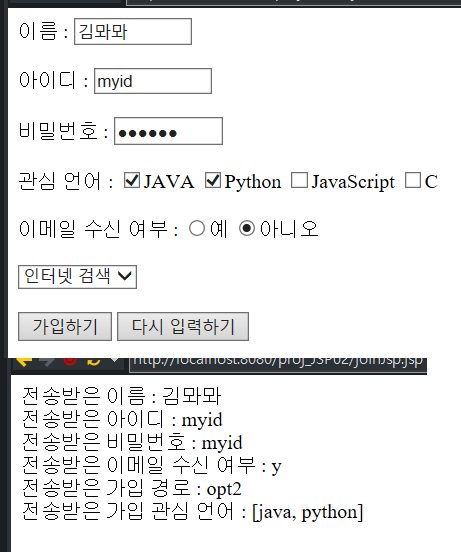
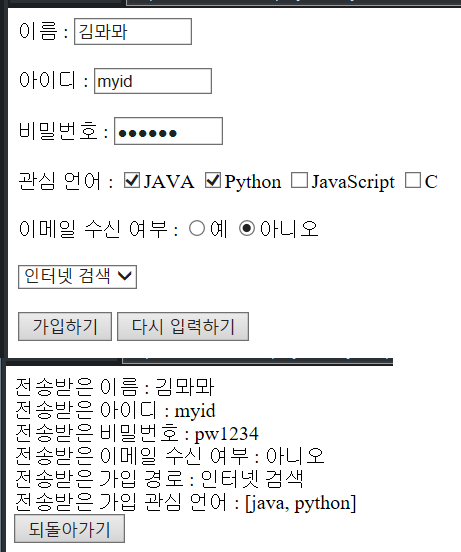
jsp05  추가

Changed region(s): [[0.0, 0.6467, 0.9414, 1.0], [0.6681, 0.8007, 0.6985, 0.8315]]

diff --git a/_posts/JSP&Servlet/2021-11-01-JSP05.md b/_posts/JSP&Servlet/2021-11-01-JSP05.md
@@ -1,5 +1,5 @@
 ---
-title: "[JSP] Request, Response 객체 / 아주아주 간단한 회원가입, 성적 입력 페이지"
+title: "[JSP] Request, Response 객체 / 아주아주 간단한 회원가입, 성적 입력 페이지 / request - 클라이언트 정보, 서버정보"
 author: Jinsol
 categories: JSP/Servlet
 tags: JSP/Servlet
@@ -165,7 +165,10 @@ date: '2021-11-01'
             <br>
             전송받은 가입 경로 : <%=route %>
             <br>
-            전송받은 가입 관심 언어 : <%= Arrays.toString(interest) %>
+            전송받은 관심 언어 : <%= Arrays.toString(interest) %>
+
+            <br>
+		    <button type="button" onclick="history.back()">되돌아가기</button>
 
     </body>
     </html>
@@ -173,7 +176,7 @@ date: '2021-11-01'
 
 - 실행결과
 
-    ![](/assets/img/jsp_join.PNG)
+    ![](/assets/img/jsp_join.png)
 
 <br>
 <br>
@@ -449,3 +452,85 @@ date: '2021-11-01'
     - 실행결과
 
         ![](/assets/img/jsp_score_post.png)
+
+
+<br>
+<br>
+
+## <span style="color:#864879">클라이언트 정보 및 서버 정보 보기</span>
+<hr>
+
+```jsp
+<%@ page language="java" contentType="text/html; charset=UTF-8"
+    pageEncoding="UTF-8"%>
+
+<!DOCTYPE html>
+<html lang="ko">
+<head>
+    <meta charset="UTF-8">
+    <meta http-equiv="X-UA-Compatible" content="IE=edge">
+    <meta name="viewport" content="width=device-width, initial-scale=1.0">
+    <title>Request Client Information</title>
+    <style>
+    	td:first-child {
+			font-size: 20px;
+			font-weight: bold;
+			text-align: right;
+		}
+		td:last-child {
+			font-size: 20px;
+			padding-left:25px;
+		}
+    </style>
+</head>
+<body>
+	<h1>Request Client Information</h1>
+	<table>
+		<tbody>
+			<tr>
+				<td>프로토콜</td>
+				<td><%=request.getProtocol() %></td>
+			</tr>
+			<tr>
+				<td>서버 이름</td>
+				<td><%=request.getServerName() %></td>
+			</tr>
+			<tr>
+				<td>서버 포트 번호</td>
+				<td><%=request.getServerPort() %></td>
+			</tr>
+			<tr>
+				<td>사용자 컴퓨터 주소</td>
+				<td><%=request.getRemoteAddr() %></td>
+			</tr>
+			<tr>
+				<td>사용자 컴퓨터 이름</td>
+				<td><%=request.getRemoteHost() %></td>
+			</tr>
+			<tr>
+				<td>전달방식 (method)</td>
+				<td><%=request.getMethod() %></td>
+			</tr>
+			<tr>
+				<td>URL</td>
+				<td><%=request.getRequestURL() %></td>
+			</tr>
+			<tr>
+				<td>URI</td>
+				<td><%=request.getRequestURI() %></td>
+			</tr>
+			<tr>
+				<td>접속 브라우저</td>
+				<td><%=request.getHeader("User-Agent") %></td>
+			</tr>
+			<tr>
+				<td>브라우저 파일 지원 형식</td>
+				<td><%=request.getHeader("Accept") %></td>
+			</tr>
+		</tbody>
+	</table>
+</body>
+</html>
+```
+
+![](/assets/img/request_clientinfo.PNG)
